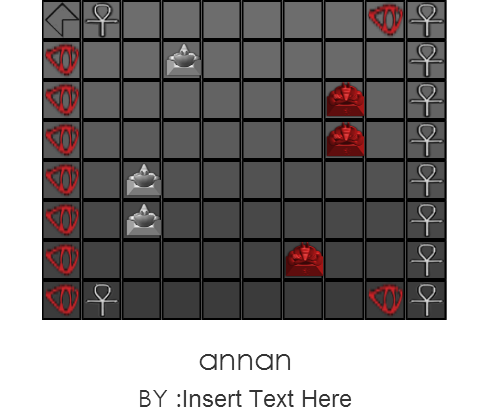
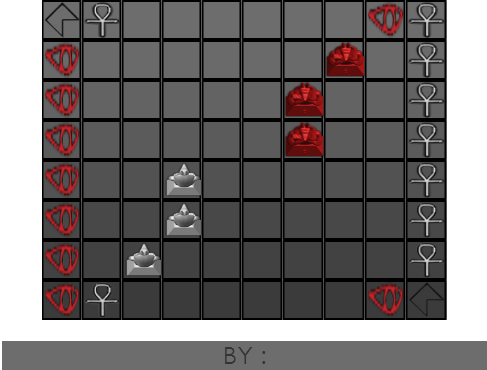
mozilla UI, and clearBoard on back button resolved

diff --git a/css/toyboard.css b/css/toyboard.css
@@ -344,15 +344,16 @@ p
 {
 	background-color: #D63434;
 }
-.bannerbg
+#display_board
 {
-	background: rgba(76,76,76,1);
+	background-color: #6d6d6d;
+	/*background: rgba(76,76,76,1);
 background: -moz-linear-gradient(left, rgba(76,76,76,1) 0%, rgba(89,89,89,1) 0%, rgba(17,17,17,1) 0%, rgba(28,28,28,1) 0%, rgba(102,102,102,1) 25%, rgba(71,71,71,1) 86%, rgba(0,0,0,1) 100%);
 background: -webkit-gradient(left top, right top, color-stop(0%, rgba(76,76,76,1)), color-stop(0%, rgba(89,89,89,1)), color-stop(0%, rgba(17,17,17,1)), color-stop(0%, rgba(28,28,28,1)), color-stop(25%, rgba(102,102,102,1)), color-stop(86%, rgba(71,71,71,1)), color-stop(100%, rgba(0,0,0,1)));
 background: -webkit-linear-gradient(left, rgba(76,76,76,1) 0%, rgba(89,89,89,1) 0%, rgba(17,17,17,1) 0%, rgba(28,28,28,1) 0%, rgba(102,102,102,1) 25%, rgba(71,71,71,1) 86%, rgba(0,0,0,1) 100%);
 background: -o-linear-gradient(left, rgba(76,76,76,1) 0%, rgba(89,89,89,1) 0%, rgba(17,17,17,1) 0%, rgba(28,28,28,1) 0%, rgba(102,102,102,1) 25%, rgba(71,71,71,1) 86%, rgba(0,0,0,1) 100%);
 background: -ms-linear-gradient(left, rgba(76,76,76,1) 0%, rgba(89,89,89,1) 0%, rgba(17,17,17,1) 0%, rgba(28,28,28,1) 0%, rgba(102,102,102,1) 25%, rgba(71,71,71,1) 86%, rgba(0,0,0,1) 100%);
 background: linear-gradient(to right, rgba(76,76,76,1) 0%, rgba(89,89,89,1) 0%, rgba(17,17,17,1) 0%, rgba(28,28,28,1) 0%, rgba(102,102,102,1) 25%, rgba(71,71,71,1) 86%, rgba(0,0,0,1) 100%);
-filter: progid:DXImageTransform.Microsoft.gradient( startColorstr='#4c4c4c', endColorstr='#000000', GradientType=1 );
+filter: progid:DXImageTransform.Microsoft.gradient( startColorstr='#4c4c4c', endColorstr='#000000', GradientType=1 );*/
 
 }

diff --git a/main3.php b/main3.php
@@ -1,7 +1,7 @@
 <!DOCTYPE html>
 <html>
   <head>
-    <title>Bootstrap  Template</title>
+    <title>Toy Board Game</title>
 
     <!-- Bootstrap -->
     <link href="css/bootstrap.css" rel="stylesheet">
